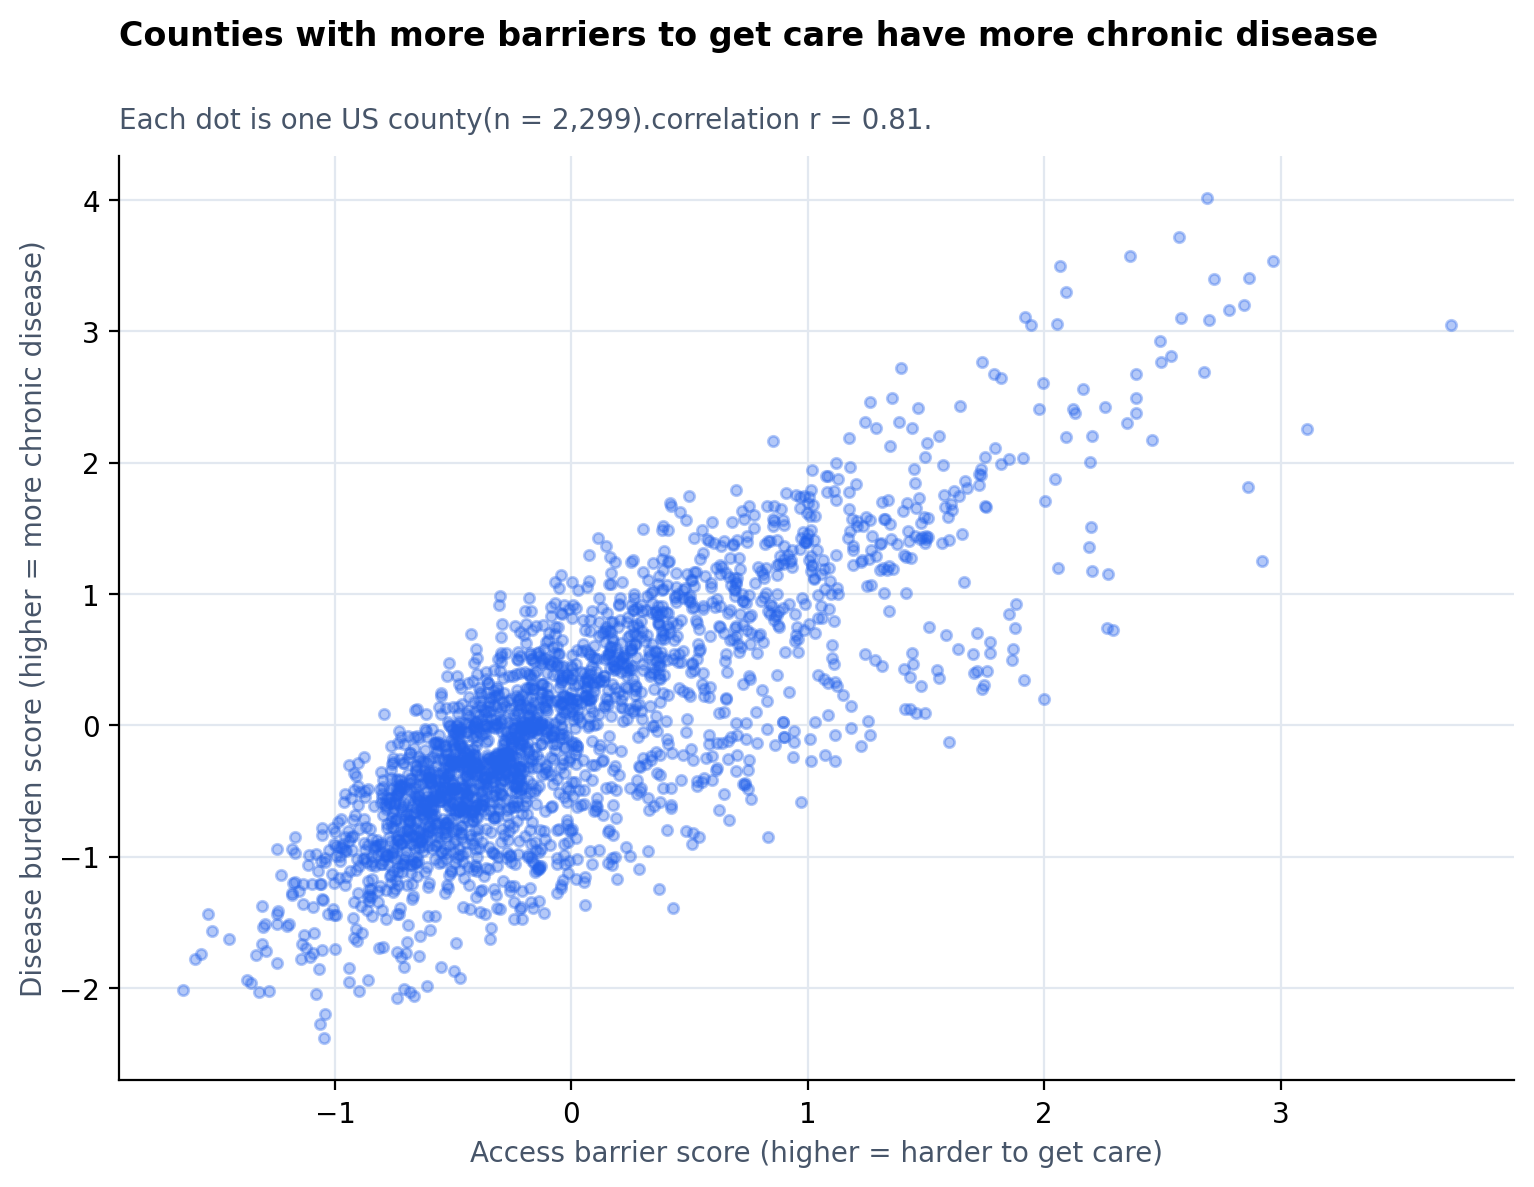
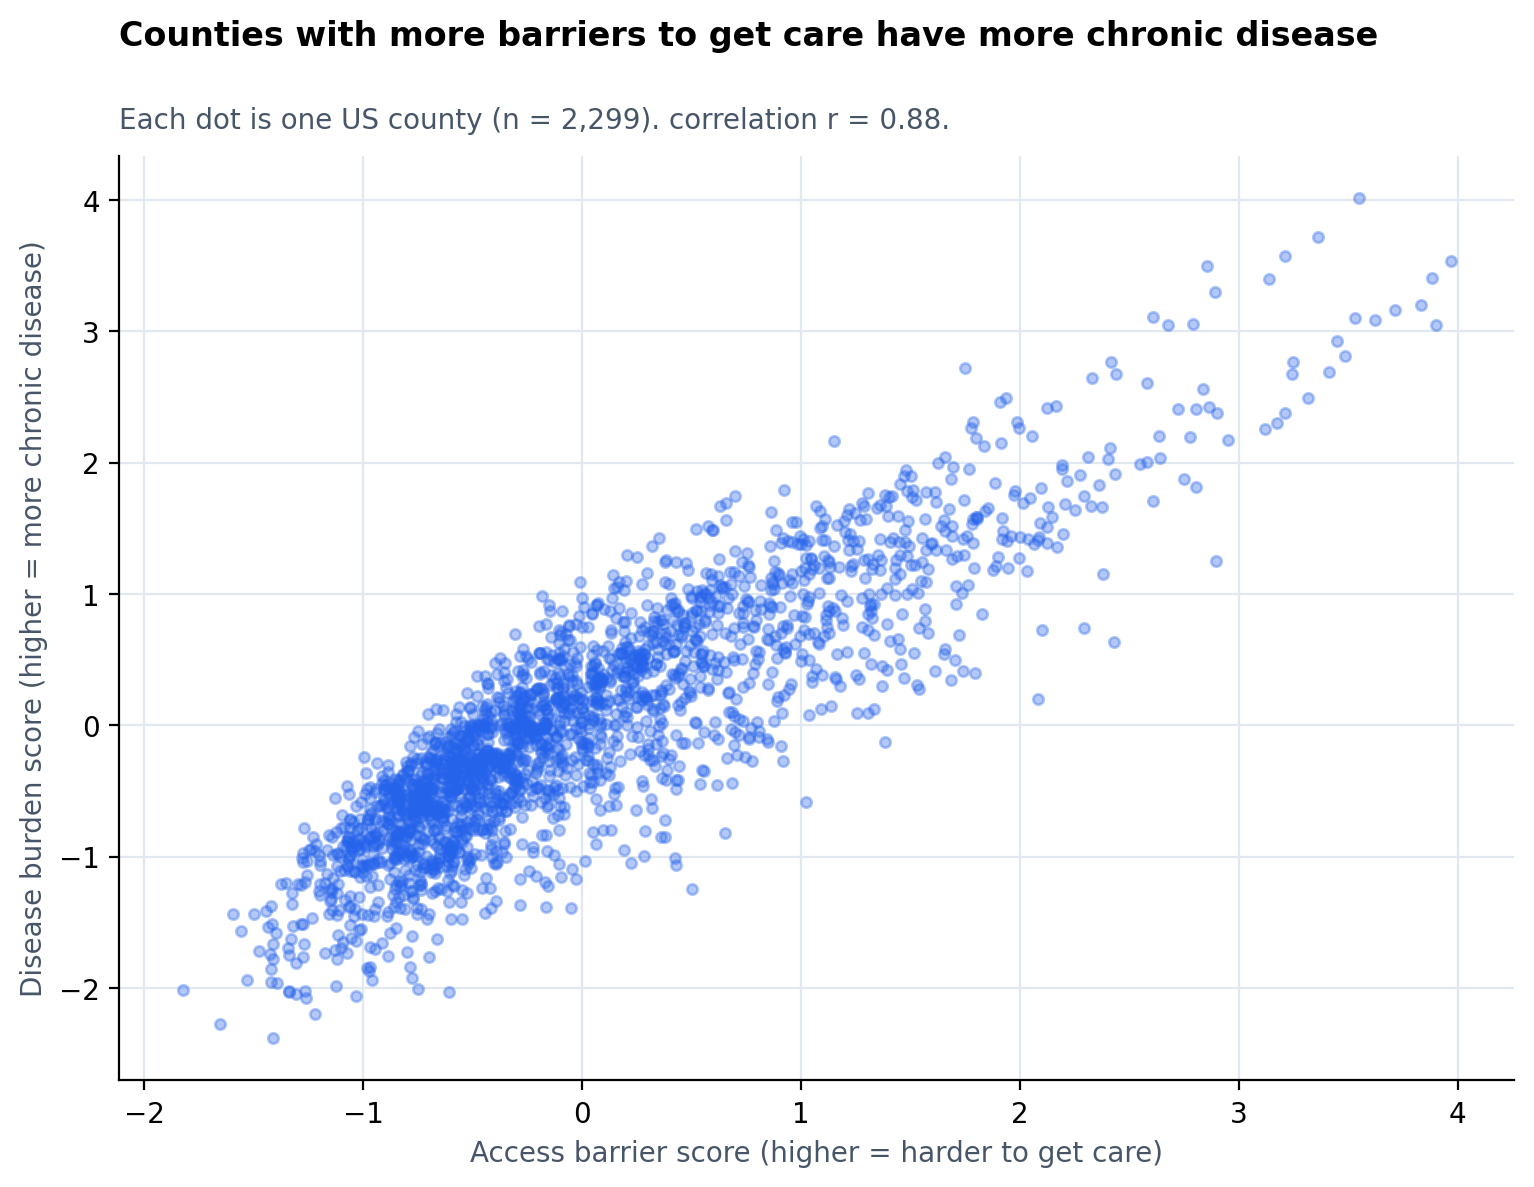
Updated figures

diff --git a/src/make_figures.py b/src/make_figures.py
@@ -17,7 +17,7 @@ def figure_scatter(df):
     r = df["access_barrier_score"].corr(df["disease_burden_score"])
     ax.set_title("Counties with more barriers to get care have more chronic disease", fontsize=12, fontweight="bold", loc="left", pad=40)
     ax.text(0, 1.03,
-            f"Each dot is one US county(n = {len(df):,}).correlation r = {r:.2f}.",
+            f"Each dot is one US county (n = {len(df):,}). correlation r = {r:.2f}.",
             transform=ax.transAxes, fontsize=10, color=muted)
 
     ax.set_xlabel("Access barrier score (higher = harder to get care)", fontsize=10, color=muted)
@@ -33,18 +33,20 @@ def figure_scatter(df):
 
 #Figure 2
 def figure_quartiles(df):
-    outcomes = ["uninsured", "diabetes", "poor_health"]
+    outcomes = ["heart_disease", "diabetes", "poor_health", "high_blood_pressure", "obesity"]
     order = ["fewest barriers", "some", "many", "most barriers"]
     med = df.groupby("barrier_quartile", observed=True)[outcomes].median()
     med = med.reindex(order)
 
-    med = med.rename(columns={"uninsured": "Uninsured",
-                                  "diabetes": "Diabetes",
-                                  "poor_health": "Poor general health"})
+    med = med.rename(columns={"heart_disease": "Heart disease",
+                                "diabetes": "Diabetes",
+                                "poor_health": "Poor general health",
+                                "high_blood_pressure": "High blood pressure",
+                                "obesity": "Obesity"})
 
     ax = med.T.plot(kind="bar", figsize=(9, 5.5),
                     color=quartile_colors, rot=0)
-    ax.set_title("Every outcome worsens as barriers to care rise\n"
+    ax.set_title("Every chronic-disease measure gets worse as barriers to care rise\n"
                  "Median % of adults, by county barrier quartile")
     ax.set_ylabel("% of adults")
     ax.legend(frameon=False, ncol=4)
@@ -71,13 +73,34 @@ def figure_population(df):
                       dpi=200, bbox_inches="tight")
     plt.close(ax.figure)
 
+#Figure 4
+def figure_states(df):
+    per_state = df.groupby("StateAbbr").size()
+    top = df[df["barrier_quartile"] == "most barriers"].groupby("StateAbbr").size()
+    share = (top / per_state).fillna(0) * 100
+    share = share[per_state >= 10].sort_values(ascending=False).head(10)
+
+    ax = share.plot(kind="barh", figsize=(9, 5), color="#1E3A8A")
+    ax.bar_label(ax.containers[0], fmt="{:.0f}%", padding=4, fontweight="bold")
+
+    ax.set_title("The highest-barrier counties cluster in the South\n"
+                 "Share of each state's counties in the 'most barriers' quartile (top 10 states)")
+    ax.set_xlabel("% of the state's counties")
+    ax.set_ylabel("")
+    ax.invert_yaxis()
+
+    ax.figure.savefig(figdir / "04_top_quartile_by_state.png",
+                      dpi=200, bbox_inches="tight")
+    plt.close(ax.figure)
+
 def main():
     figdir.mkdir(exist_ok=True)
     df = pd.read_csv(source)
     figure_scatter(df)
     figure_quartiles(df)
     figure_population(df)
-    print(f"wrote 3 figures to {figdir}")
+    figure_states(df)
+    print(f"wrote 4 figures to {figdir}")
 
 if __name__ == "__main__":
     main()
